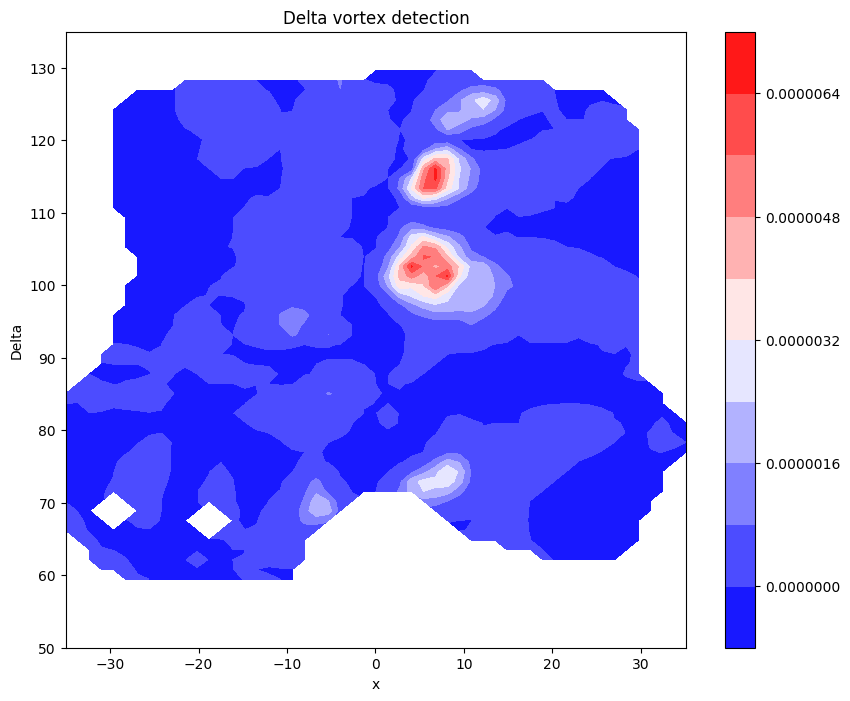
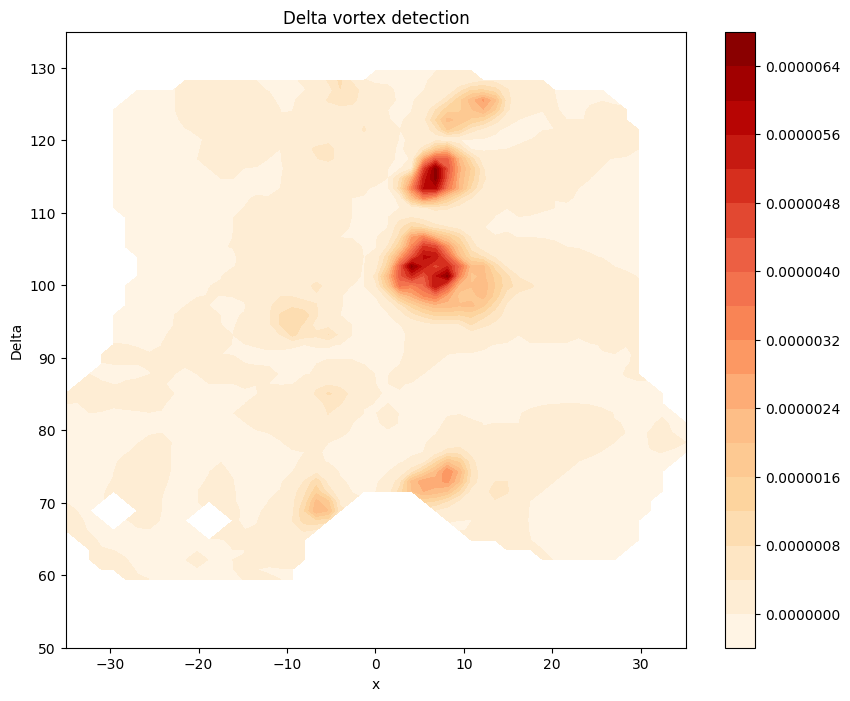
changed graphs

diff --git a/src/load_file.py b/src/load_file.py
@@ -135,7 +135,7 @@ def plot_data_3d(xx, yy, data, save=False, show=True, *args):
 def countour_data_plot(xx, yy, data, *args, save=False, show=True):
     fig = plt.figure(figsize=(10, 8))
     ax = fig.add_subplot(111)
-    cs = plt.contourf(xx, yy, data, 10, cmap=cm.OrRd, origin='lower')
+    cs = plt.contourf(xx, yy, data, 20, cmap=cm.OrRd, origin='lower')
     ax.set_xlabel('x')
     # ax.set_ylabel('y')
     fig.colorbar(cs)
@@ -152,7 +152,7 @@ def vortexcenter_scatter_plot(xx, yy, data, centers, *args, save=False, show=Tru
     if new_plot:
         fig = plt.figure(figsize=(10, 8))
         ax = fig.add_subplot(111)
-        cs = plt.contourf(xx, yy, data, 10, cmap=cm.OrRd, origin='lower')
+        cs = plt.contourf(xx, yy, data, 20, cmap=cm.OrRd, origin='lower')
         fig.colorbar(cs)
         ax.set_xlabel('x')
 
@@ -184,7 +184,7 @@ def quiver_data_plot(xx, yy, data, plane_vector, *args, vortex_centers = None, s
     """Quiver plot."""
     fig = plt.figure(figsize=(10, 8))
     ax = fig.add_subplot(111)
-    cs = plt.contourf(xx, yy, data, 10, cmap=cm.OrRd, origin='upper')
+    cs = plt.contourf(xx, yy, data, 20, cmap=cm.OrRd, origin='upper')
     mag_plane_vel = (plane_vector[0, :, :] ** 2 + plane_vector[1, :, :] ** 2) ** 0.5
     max = np.nanmax(mag_plane_vel)
     skip=(slice(None,None,2),slice(None,None,2))
